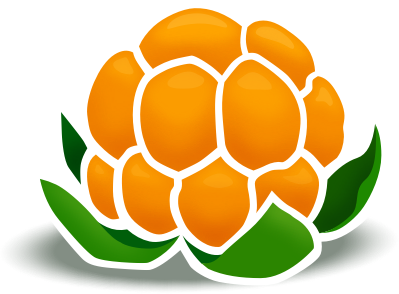
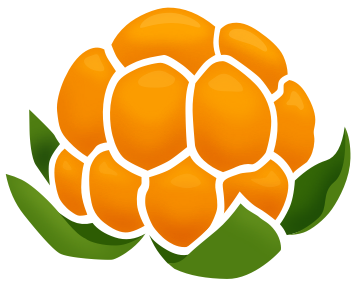
Updated text and images + eslint.

diff --git a/src/pages/index.js b/src/pages/index.js
@@ -1,16 +1,22 @@
-import React from 'react'
-import { Link } from 'gatsby'
+import React from "react";
+import { Link } from "gatsby";
 
-import Layout from '../components/layout'
-import mindmap from "../images/mindmap.png"
+import Layout from "../components/layout";
+import mindmap from "../images/mindmap.png";
 
 const IndexPage = () => (
   <Layout>
     <div class="bg-first-section">
       <div class="wrapper">
         <div class="introduction">
-          <h1>Stress och utmattning!</h1>
-          <p>Välkommen till den här sajten som fokuserar på stress och utmattning. Skälet till att denna sajt skapades var för att ha ett ställe att samla all information jag samlat på mig via podcasts, böcker, andra sajter, osv. Ett ställe att gå tillbaka till när man behöver friska upp minnet.</p>
+          <h1>Stress och utmattning</h1>
+          <p>
+            Välkommen till den här sajten som fokuserar på stress och
+            utmattning. Skälet till att denna sajt skapades var för att ha ett
+            ställe att samla all information jag stött på via podcasts, böcker,
+            andra sajter, osv. Ett ställe att gå tillbaka till när man behöver
+            friska upp minnet.
+          </p>
         </div>
       </div>
     </div>
@@ -19,10 +25,33 @@ const IndexPage = () => (
       <div class="wrapper">
         <div class="col-9">
           <h2>Mer om varför</h2>
-          <p>Förutom att jag vill ha ett ställe att samla all information jag hittar så hoppas jag att det kanske kan hjälpa någon annan som hamnat i en liknande situation. För precis som en del andra jag känner som har/haft problem med långvarig stress så vill jag hjälpa - enda skillnaden är att medan de utbildar sig till stresscoacher, terapeuter etc så skapar jag en sajt.</p>
-          <p>Ett annat skäl till den här sajten är att jag hittat ett hål i internet. I början av min sjukskrivning så googlade jag på utmattningssyndrom och stress och hittade massa artiklar, bloggar, osv i ämnet men hittade ingen sida som gav mig en fullständig bild. Från början försökte jag skapa den bilden med hjälp av en mindmap (bilden nedan visar en bit av den) men den bara växte och i slutändan saknade jag ändå den djupgående informationen. Så med den här sidan tänkte jag bit för bit försöka täcka så mycket jag kan och orkar.</p>
+          <p>
+            Förutom att ha ett ställe att samla information så hoppas jag att
+            den kommer till nytta för någon annan som hamnat i en liknande
+            situation. Precis som många andra som har/haft problem med långvarig
+            stress så vill jag också dela med mig och förhoppningsvis hjälpa
+            någon annan - och då jag kan lite interaktionsdesign och webb så
+            kändes en sajt passande.
+          </p>
+          <p>
+            Ett annat skäl till den här sajten är att jag hittat ett hål i
+            internet. I början av min sjukskrivning så googlade jag på
+            utmattningssyndrom och stress och hittade massa artiklar, bloggar,
+            osv i ämnet men jag hittade ingen sida som gav mig en fullständig
+            bild. Från början försökte jag skapa den bilden med hjälp av en
+            mindmap (bilden nedan visar en bit av den) men den bara växte och i
+            slutändan saknade jag ändå den djupgående informationen. Så med den
+            här sidan tänkte jag bit för bit försöka täcka så mycket jag kan och
+            orkar.
+          </p>
           <img src={mindmap} class="mindmap" alt="Utmattningssyndrom mindmap" />
-          <p>Förutom stress och utmattning så kommer den här sajten även att komma i kontakt med närliggande områden som oro och ångest. Jag anar också att det kommer bli en hel del information också om hur vi fungerar som människor, då jag gillar beteenden.</p>
+          <p>
+            Förutom stress och utmattning så kommer den här sajten även att
+            komma i kontakt med närliggande områden som oro och ångest. Jag anar
+            också att det kommer bli en hel del information också om hur vi
+            fungerar som människor, då jag gillar beteenden och förstå hur vårt
+            egna system (kroppen) fungerar.
+          </p>
         </div>
       </div>
     </div>
@@ -33,14 +62,21 @@ const IndexPage = () => (
           <h2>Senaste uppdaterad</h2>
           <ul class="last-updated">
             <li>
+              <p class="date">2019-03-11</p>
+              <p class="description">Uppdaterat lite texter och grafik.</p>
+            </li>
+            <li>
               <p class="date">2018-11-07</p>
-              <p class="description">Ett första version av sajten är framtagen. Tanken är att det ska skapas fler sidor och läggas in mer information allt eftersom.</p>
+              <p class="description">
+                Ett första version av sajten är framtagen. Tanken är att det ska
+                skapas fler sidor och läggas in mer information allt eftersom.
+              </p>
             </li>
           </ul>
         </div>
       </div>
     </div>
   </Layout>
-)
+);
 
-export default IndexPage
+export default IndexPage;

diff --git a/src/components/layout.scss b/src/components/layout.scss
@@ -1,28 +1,29 @@
-@import 'variables';
-@import 'reset';
-@import 'mygrid';
+@import "variables";
+@import "reset";
+@import "mygrid";
 
-@import url('https://fonts.googleapis.com/css?family=Muli|Nunito');
+@import url("https://fonts.googleapis.com/css?family=Muli|Nunito");
 
-
-/* --- GENERAL --- */ 
+/* --- GENERAL --- */
 
 /* Definierar bakgrundsfärg och font-styling */
 body {
-    color: $font-color;
-    font-family: 'Muli', sans-serif;
+  color: $font-color;
+  font-family: "Muli", sans-serif;
 }
 
 /* Wrapper för innehållet, centrerar content och sätter bredd */
 .wrapper {
-    max-width: 1160px;
-    margin: 0 auto;
-    overflow: auto;
+  max-width: 1160px;
+  margin: 0 auto;
+  overflow: auto;
 }
 
 .bg-first-section {
-  background-image: url('../images/intro-img.png');
+  background-image: url("../images/intro-img.png");
   background-repeat: no-repeat;
+  background-position: center top;
+  background-size: auto 380px;
 }
 
 .bg-color1 {
@@ -39,13 +40,12 @@ body {
 
 .introduction {
   background-color: $background-white;
-  margin: 305px 10% 45px 10%;
+  margin: 260px 10% 25px 10%;
   padding: 45px 65px 55px 65px;
-  -webkit-box-shadow: 0px 10px 25px -16px rgba(0,0,0,0.75);
-  -moz-box-shadow: 0px 10px 25px -16px rgba(0,0,0,0.75);
-  box-shadow: 0px 10px 25px -16px rgba(0,0,0,0.75);
+  -webkit-box-shadow: 0px 10px 25px -16px rgba(0, 0, 0, 0.75);
+  -moz-box-shadow: 0px 10px 25px -16px rgba(0, 0, 0, 0.75);
+  box-shadow: 0px 10px 25px -16px rgba(0, 0, 0, 0.75);
 }
-
 
 /*** Text ***/
 
@@ -62,7 +62,8 @@ h2 {
   font-weight: bold;
 }
 
-p, li p {
+p,
+li p {
   line-height: 1.75em;
   margin-bottom: 1.5em;
 }
@@ -98,10 +99,7 @@ ul.references {
   font-size: 0.875em;
 }
 
-
-
-
-/* --- START PAGE --- */ 
+/* --- START PAGE --- */
 
 img.mindmap {
   display: block;
@@ -114,7 +112,7 @@ img.mindmap {
 
 p.date {
   width: 130px;
-	float: left;
+  float: left;
   vertical-align: top;
   font-weight: bolder;
   margin-bottom: 0px;

diff --git a/src/components/footer.scss b/src/components/footer.scss
@@ -1,16 +1,16 @@
-@import 'variables';
+@import "variables";
 
 .footer {
-    background-color: $primary-color-dark;
-    background-image: url('../images/footer-bg.svg');
-    background-repeat: no-repeat;
-    padding: 10% 20px 4% 20px;
-    text-align: center;
-    color:#fff;
-    font-size: 0.8em;
+  //   background-color: $primary-color-dark;
+  background-image: url("../images/footer-bg.png");
+  background-repeat: no-repeat;
+  padding: 10% 20px 2% 20px;
+  text-align: center;
+  color: #fff;
+  font-size: 0.8em;
 }
 
 .footer p {
-    padding: 0;
-    margin: 0;
+  padding: 0;
+  margin: 0;
 }

diff --git a/src/components/header.scss b/src/components/header.scss
@@ -1,26 +1,26 @@
-@import 'variables';
+@import "variables";
 
 .header {
-    padding-top: 35px;
+  padding-top: 35px;
 }
 
 .header h1 {
-    text-align: center;
-    margin-bottom: 25px;
+  text-align: center;
+  margin-bottom: 25px;
 }
 
 .logo {
-    display: block;
-    text-align: center;
-    margin-bottom: 3px;
-  }
+  display: block;
+  text-align: center;
+  margin-bottom: 3px;
+}
 
 .logo img {
-    width: 80px;
-  }
+  width: 90px;
+}
 
 .header h1 a {
-    font-size: 28px;
-    text-decoration: none;
-    color: #D67900;
+  font-size: 28px;
+  text-decoration: none;
+  color: #d67900;
 }

diff --git a/src/components/variables.scss b/src/components/variables.scss
@@ -1,8 +1,8 @@
-/* --- VARIABLES --- */ 
+/* --- VARIABLES --- */
 
-$primary-color: #2B8500;
-$primary-color-light: #BDE073;
-$primary-color-dark: #4B7709;
+$primary-color: #4f7e12;
+$primary-color-light: #bde073;
+$primary-color-dark: #4b7709;
 
 $background-white: #ffffff;
 
